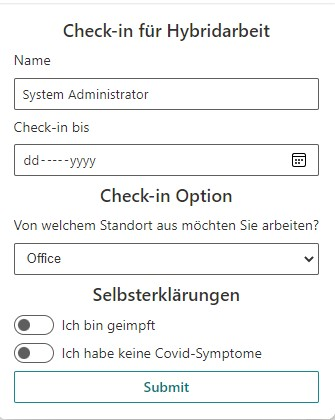
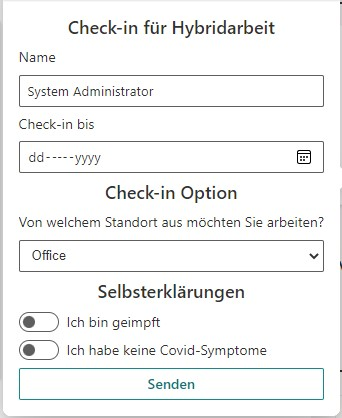
more localization updates

diff --git a/samples/ImageCard-HybridWork-Checkin/src/common/Constants.ts b/samples/ImageCard-HybridWork-Checkin/src/common/Constants.ts
@@ -8,7 +8,8 @@ export const CheckinFormTemplateLabels = {
     workOptionLabel: Localizations.WorkLocationOptionLabel,
     vaccineCheckLabel: Localizations.VaccinationCheckLabel,
     symptomCheckLabel: Localizations.CovidSymptomsCheckLabel,
-    declarationSectionLabel: Localizations.DeclareSectionHeaderLabel
+    declarationSectionLabel: Localizations.DeclareSectionHeaderLabel,
+    submitButtonLabel: Localizations.SubmitButtonLabel
 };
 
 export const listName = "Hybrid Work Employee Check in";

diff --git a/samples/ImageCard-HybridWork-Checkin/src/adaptiveCardExtensions/hybridWorkCheckin/loc/de-de.js b/samples/ImageCard-HybridWork-Checkin/src/adaptiveCardExtensions/hybridWorkCheckin/loc/de-de.js
@@ -17,6 +17,7 @@ define([], function() {
       "WorkLocationOptionLabel":"Von welchem Standort aus möchten Sie arbeiten?",
       "VaccinationCheckLabel":"Ich bin geimpft",
       "CovidSymptomsCheckLabel":"Ich habe keine Covid-Symptome",
-      "DeclareSectionHeaderLabel":"Selbsterklärungen"
+      "DeclareSectionHeaderLabel":"Selbsterklärungen",
+      "SubmitButtonLabel":"Senden"
     }
   });

diff --git a/samples/ImageCard-HybridWork-Checkin/src/adaptiveCardExtensions/hybridWorkCheckin/loc/en-us.js b/samples/ImageCard-HybridWork-Checkin/src/adaptiveCardExtensions/hybridWorkCheckin/loc/en-us.js
@@ -17,6 +17,7 @@ define([], function() {
     "WorkLocationOptionLabel":"Which location do you want to work from?",
     "VaccinationCheckLabel":"I am vaccinated",
     "CovidSymptomsCheckLabel":"I don't have Covid symptoms",
-    "DeclareSectionHeaderLabel":"Self-declarations"
+    "DeclareSectionHeaderLabel":"Self-declarations",
+    "SubmitButtonLabel":"Submit"
   }
 });

diff --git a/samples/ImageCard-HybridWork-Checkin/src/adaptiveCardExtensions/hybridWorkCheckin/loc/mystring.d.ts b/samples/ImageCard-HybridWork-Checkin/src/adaptiveCardExtensions/hybridWorkCheckin/loc/mystring.d.ts
@@ -17,6 +17,7 @@ declare interface IHybridWorkCheckinAdaptiveCardExtensionStrings {
   VaccinationCheckLabel: string;
   CovidSymptomsCheckLabel: string;
   DeclareSectionHeaderLabel: string;
+  SubmitButtonLabel: string;
 }
 
 declare module 'HybridWorkCheckinAdaptiveCardExtensionStrings' {

diff --git a/samples/ImageCard-HybridWork-Checkin/src/adaptiveCardExtensions/hybridWorkCheckin/quickView/CheckinFormView.ts b/samples/ImageCard-HybridWork-Checkin/src/adaptiveCardExtensions/hybridWorkCheckin/quickView/CheckinFormView.ts
@@ -38,5 +38,4 @@ export class CheckinFormView extends BaseAdaptiveCardView<
       this.quickViewNavigator.push(COMPLETE_VIEW_REGISTRY_ID);
     });
   }
-
 }
